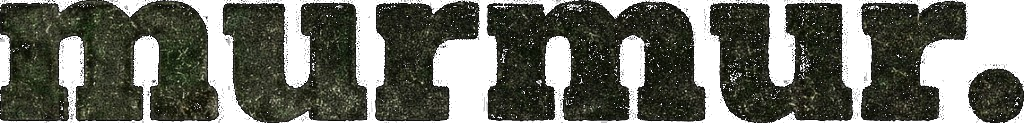
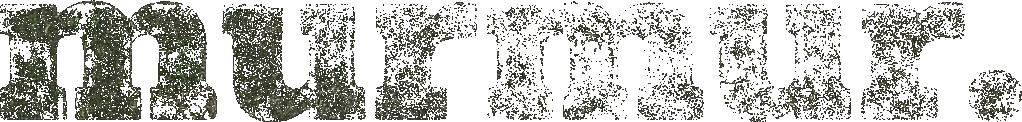
fix: remove black plate from murmur wordmark

diff --git a/.superpowers/sdd/task-7-report.md b/.superpowers/sdd/task-7-report.md
@@ -1,0 +1,25 @@
+# Task 7 Report: Brand assets
+
+Status: Complete
+
+Commit: `2979bca` — `assets: add murmur wordmark and warm oak shelf texture`
+
+## Delivered
+
+- `public/assets/wordmark.png`: 1024×123 RGBA PNG with the supplied `murmur.` lettering retained and the near-black plate converted to transparency.
+- `public/assets/worn-wood.jpg`: 1600×512 generated warm-oak texture with horizontal grain, tonal variation, pores, and restrained knots for shelf backgrounds.
+
+## Verification
+
+- Confirmed the wordmark is RGBA with alpha values from 0–255 and 35,795 fully transparent pixels.
+- Confirmed the wood texture is RGB, has warm golden channel means `[179.8, 118.0, 57.4]`, and non-flat pixel variation (`std 51.7`).
+- Visually reviewed both generated assets.
+
+Concerns: None.
+
+## Critical fix follow-up
+
+- Reprocessed `public/assets/wordmark.png` with Sharp, converting pixels whose maximum RGB channel was ≤40 to full transparency and trimming empty edges.
+- Verified the result is a 1022×122 RGBA PNG with alpha values 0–255, 85,562 fully transparent pixels, and zero visible pixels remaining at or below the near-black threshold.
+- Visual review: only the distressed `murmur.` letterforms and period remain; the rectangular black plate is gone and the surrounding/interior negative space is transparent.
+- Checks: `npm test` (7 files, 25 tests passed) and `npm run build` passed.
